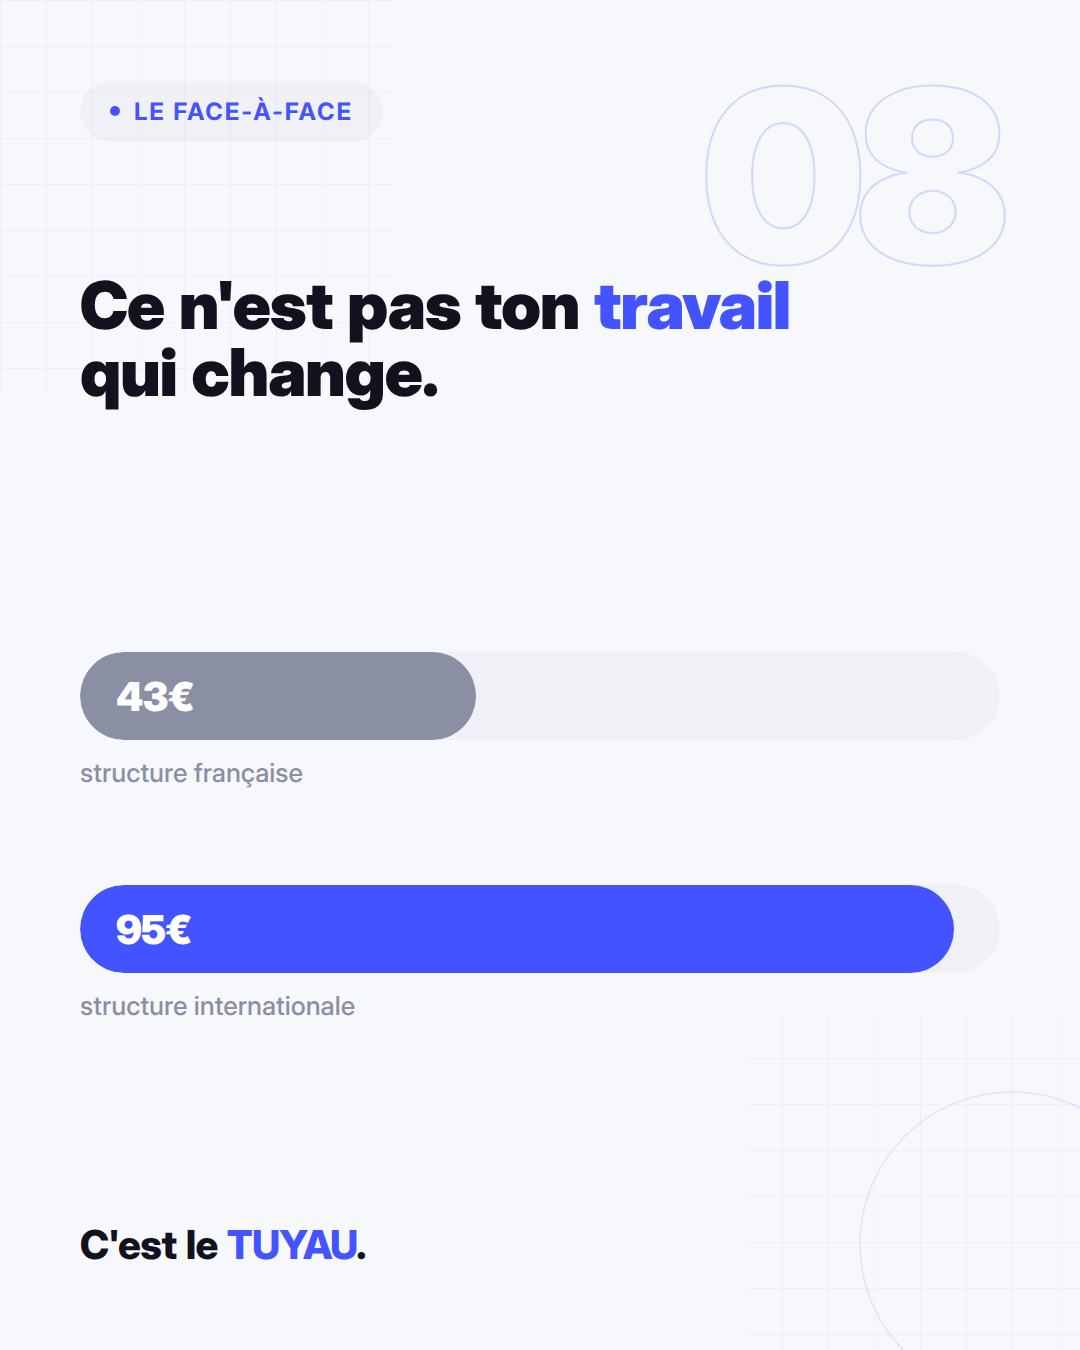
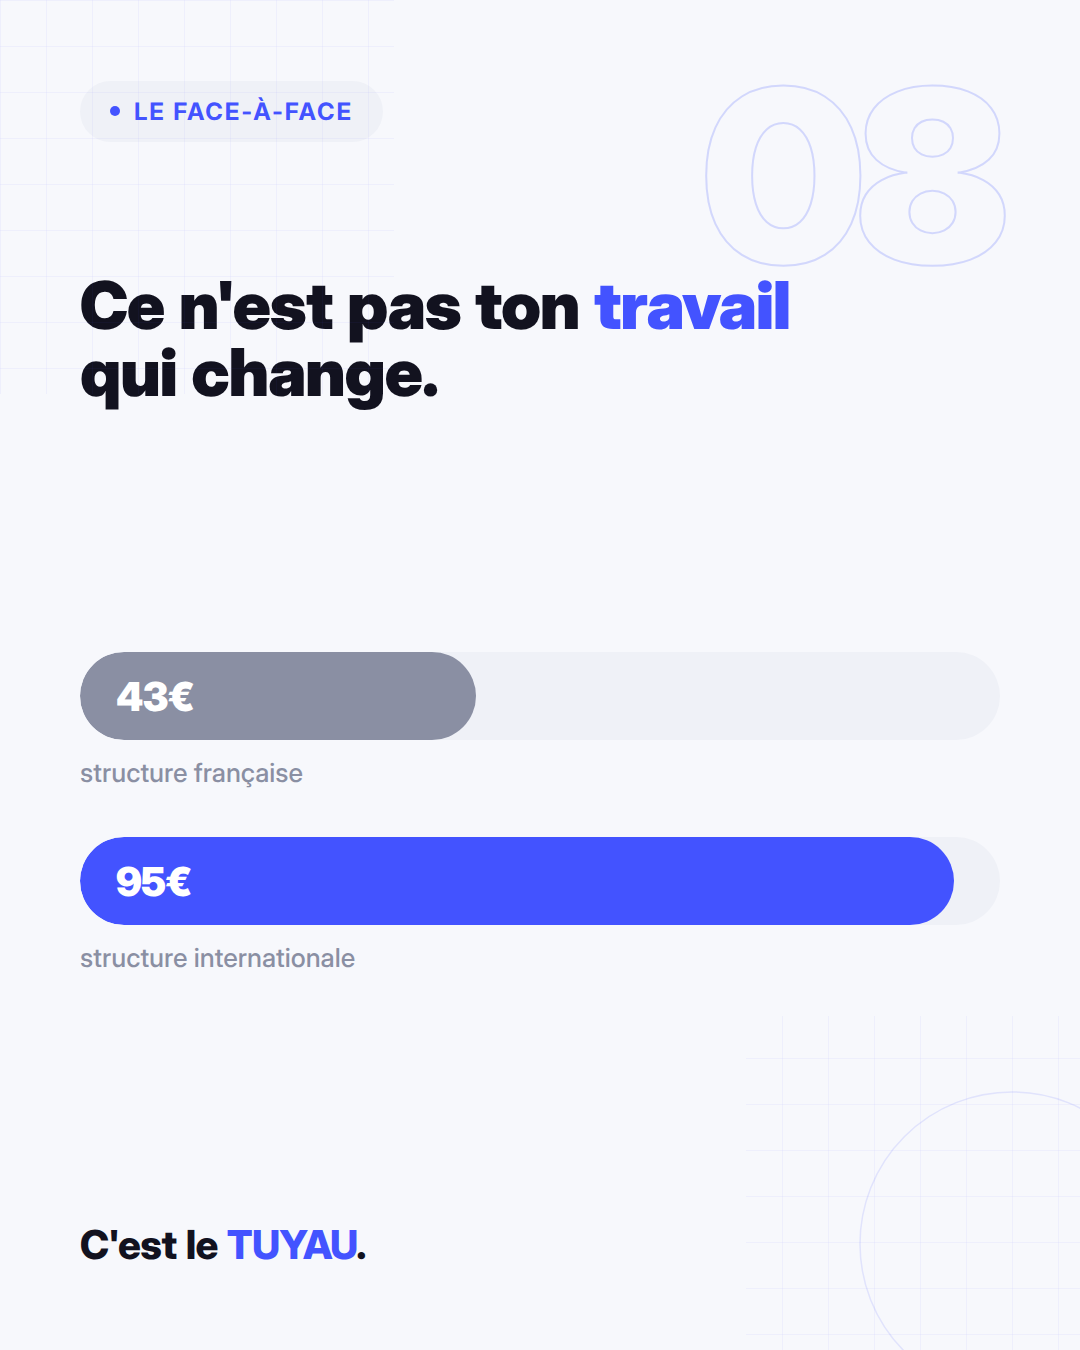
Deck « euro » : les 10 slides rendues
- slides 1, 2, 4, 5, 6, 7, 9, 10 generees et verifiees
- la ligne du montant precedent n'est plus emise quand il n'y en a pas
  (slides 2, 7, 8) : elle laissait un bloc vide de 36px au-dessus de la
  barre, visible surtout dans la card bleue de la slide 7

Claude-Session: https://claude.ai/code/session_01JgjaVc8GDMA4sZRNpbXpxq

Changed region(s): [[0.0611, 0.6222, 0.8861, 0.7778]]

diff --git a/carrousel/slides/euro/slide-05.html b/carrousel/slides/euro/slide-05.html
@@ -36,7 +36,7 @@
         <div class="gauges" style="margin-top:44px">
           
     <div class="gauge gauge--mini">
-      <div class="gauge-top"></div>
+      
       <div class="gauge-bar">
         <div class="gauge-fill" style="width:100%"><span class="gauge-val">100€</span></div>
       </div>
@@ -44,7 +44,7 @@
     </div>
           
     <div class="gauge gauge--mini">
-      <div class="gauge-top"></div>
+      
       <div class="gauge-bar">
         <div class="gauge-fill" style="width:83%"><span class="gauge-val">83€</span></div>
       </div>
@@ -52,7 +52,7 @@
     </div>
           
     <div class="gauge gauge--mini">
-      <div class="gauge-top"></div>
+      
       <div class="gauge-bar">
         <div class="gauge-fill" style="width:62%"><span class="gauge-val">62€</span></div>
       </div>

diff --git a/carrousel/slides/euro/slide-08.html b/carrousel/slides/euro/slide-08.html
@@ -26,7 +26,7 @@
         <div class="gauges" style="gap:48px">
           
     <div class="gauge gauge--grey">
-      <div class="gauge-top"></div>
+      
       <div class="gauge-bar">
         <div class="gauge-fill" style="width:43%"><span class="gauge-val">43€</span></div>
       </div>
@@ -34,7 +34,7 @@
     </div>
           
     <div class="gauge ">
-      <div class="gauge-top"></div>
+      
       <div class="gauge-bar">
         <div class="gauge-fill" style="width:95%"><span class="gauge-val">95€</span></div>
       </div>

diff --git a/carrousel/slides/euro/slide-04.html b/carrousel/slides/euro/slide-04.html
@@ -26,7 +26,7 @@
         <div class="gauges">
           
     <div class="gauge gauge--mini">
-      <div class="gauge-top"></div>
+      
       <div class="gauge-bar">
         <div class="gauge-fill" style="width:100%"><span class="gauge-val">100€</span></div>
       </div>
@@ -34,7 +34,7 @@
     </div>
           
     <div class="gauge gauge--mini">
-      <div class="gauge-top"></div>
+      
       <div class="gauge-bar">
         <div class="gauge-fill" style="width:83%"><span class="gauge-val">83€</span></div>
       </div>

diff --git a/carrousel/src/slides-euro.js b/carrousel/src/slides-euro.js
@@ -22,7 +22,7 @@ const badge = t => `<div class="head"><span class="badge">${t}</span></div>`;
 function gauge({ pct, val, prev = '', label = '', mod = '' }) {
   return `
     <div class="gauge ${mod}">
-      <div class="gauge-top">${prev ? `<span class="gauge-prev">${prev}</span>` : ''}</div>
+      ${prev ? `<div class="gauge-top"><span class="gauge-prev">${prev}</span></div>` : ''}
       <div class="gauge-bar">
         <div class="gauge-fill" style="width:${pct}%"><span class="gauge-val">${val}</span></div>
       </div>

diff --git a/carrousel/slides/euro/slide-07.html b/carrousel/slides/euro/slide-07.html
@@ -29,7 +29,7 @@
         <div class="stat stat--blue" style="padding:52px 56px">
           
     <div class="gauge gauge--invert">
-      <div class="gauge-top"></div>
+      
       <div class="gauge-bar">
         <div class="gauge-fill" style="width:95%"><span class="gauge-val">95€</span></div>
       </div>

diff --git a/carrousel/slides/euro/slide-02.html b/carrousel/slides/euro/slide-02.html
@@ -31,7 +31,7 @@
         </div>
         <div style="margin-top:44px">
     <div class="gauge ">
-      <div class="gauge-top"></div>
+      
       <div class="gauge-bar">
         <div class="gauge-fill" style="width:100%"><span class="gauge-val">100€</span></div>
       </div>
